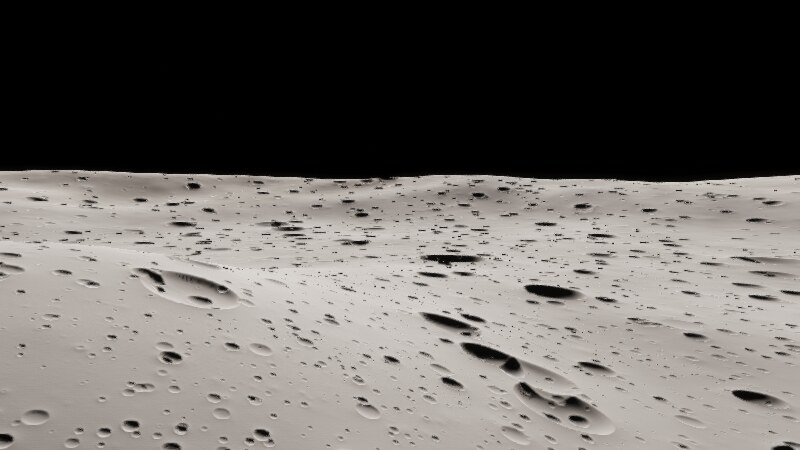
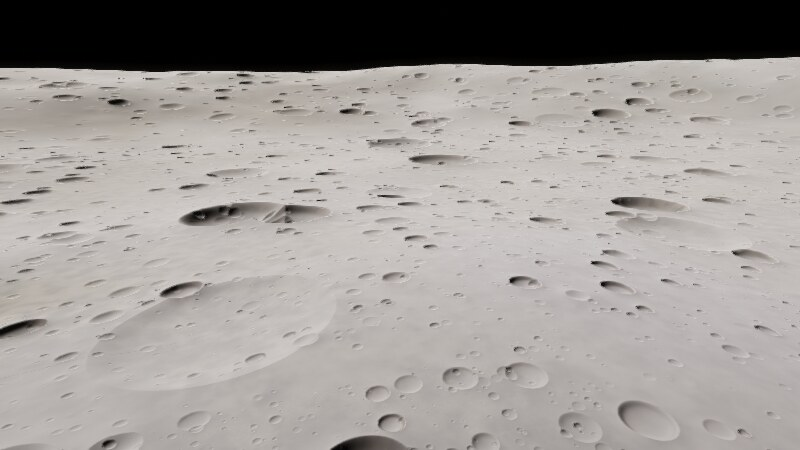
Baked ambient occlusion per terrain tile, scattered boulders on barren ground, degraded small craters

diff --git a/src/planet.js b/src/planet.js
@@ -115,9 +115,10 @@ void main(){
     return;
   }
   vec3 N = up;
+  float aoT = 1.;
   float water = 0., depth = 0.;
   if (uKind == 0) {
-    vec2 nn = texture(uNormTex, tuv).rg;
+    vec3 nt = texture(uNormTex, tuv).rgb; vec2 nn = nt.rg; aoT = nt.b;
     vec3 T1 = normalize(uFaceA - dir*dot(dir, uFaceA)), T2 = cross(dir, T1);
     N = normalize(uRot*(dir*sqrt(max(0., 1. - dot(nn, nn))) + T1*nn.x + T2*nn.y));
     if (uOcean > 0.5) { float h = heightAt(vUV); depth = uSea - h; water = smoothstep(0., 0.4, depth); }
@@ -208,7 +209,8 @@ void main(){
       }
       shade *= 1. - clamp(occ, 0., 1.)*0.92;
     }
-    vec3 land = alb.rgb * (lc*sunT*shade + amb) / 3.14159;
+    float ao = mix(1., aoT, 1. - water);
+    vec3 land = alb.rgb * (lc*sunT*shade*mix(1., ao, 0.35) + amb*ao) / 3.14159;
     if (uSpec > 0.) { vec3 H = normalize(L + Vv); land += lc*sunT*uSpec*0.04*ggx(max(dot(N, H), 0.), 0.35)*max(nl, 0.); }
     if (water > 0.) {
       vec3 H = normalize(L + Vv);
@@ -245,7 +247,7 @@ function mapTint(body, mp) {
   return [t[0] * k, t[1] * k, t[2] * k];
 }
 function dummyTex() { if (!dummy) dummy = tex2D(1, 1, gl.RGBA8, gl.RGBA, gl.UNSIGNED_BYTE, gl.NEAREST, gl.CLAMP_TO_EDGE, new Uint8Array([128, 128, 128, 255])); return dummy; }
-let progDraw = null, progGen = {}, gridVAO = null, gridCount = 0, genFBO = null, queryFBO = null, queryTex = null;
+let progAO = null, progDraw = null, progGen = {}, gridVAO = null, gridCount = 0, genFBO = null, queryFBO = null, queryTex = null;
 const texPool = [];
 let frame = 0;
 
@@ -257,6 +259,18 @@ function init() {
   progGen.terra = new Program('gen-terra', FS_VS, '#define HAS_RELIEF\n' + pre + GEN_TERRA + GEN_MAIN);
   progGen.gas = new Program('gen-gas', FS_VS, pre + GEN_GAS + GEN_MAIN);
   progGen.star = new Program('gen-star', FS_VS, pre + GEN_STAR + GEN_MAIN);
+  progAO = new Program('tile-ao', FS_VS, `in vec2 vUV; out vec4 o; uniform sampler2D uHeightTex; uniform float uTexel, uTexSize;
+    void main(){
+      ivec2 p = ivec2(gl_FragCoord.xy); ivec2 mx = ivec2(int(uTexSize) - 1);
+      float h0 = texelFetch(uHeightTex, p, 0).r, occ = 0.;
+      for (int k = 0; k < 8; k++) {
+        float a = float(k)*0.7853982 + 0.39; vec2 d = vec2(cos(a), sin(a));
+        float best = 0.;
+        for (int r = 1; r <= 16; r *= 2) { ivec2 q = clamp(p + ivec2(d*float(r)), ivec2(0), mx); float dh = texelFetch(uHeightTex, q, 0).r - h0; best = max(best, dh/(float(r)*uTexel)); }
+        occ += best/sqrt(1. + best*best);
+      }
+      o = vec4(0., 0., clamp(1. - occ/8.*0.9, 0.2, 1.), 0.);
+    }`);
   // shared grid with skirt ring
   const G = (cfg.T - 1) / 3; cfg.G = G;
   const n = G + 3, verts = new Float32Array(n * n * 3), idx = new Uint32Array((n - 1) * (n - 1) * 6);
@@ -276,7 +290,7 @@ function init() {
 function allocTex() {
   if (texPool.length) return texPool.pop();
   const T = cfg.T;
-  return { h: tex2D(T, T, gl.R32F, gl.RED, gl.FLOAT, gl.NEAREST), n: tex2D(T, T, gl.RG16F, gl.RG, gl.HALF_FLOAT, gl.LINEAR), a: tex2D(T, T, gl.RGBA8, gl.RGBA, gl.UNSIGNED_BYTE, gl.LINEAR) };
+  return { h: tex2D(T, T, gl.R32F, gl.RED, gl.FLOAT, gl.NEAREST), n: tex2D(T, T, gl.RGBA16F, gl.RGBA, gl.HALF_FLOAT, gl.LINEAR), a: tex2D(T, T, gl.RGBA8, gl.RGBA, gl.UNSIGNED_BYTE, gl.LINEAR) };
 }
 
 class Chunk {
@@ -347,6 +361,17 @@ class PlanetState {
     gl.disable(gl.BLEND); gl.disable(gl.DEPTH_TEST);
     this.genUniforms(prog, ch, cfg.T);
     drawFS();
+    if (this.surf.gen === 'terra') {
+      // ambient occlusion from the baked heights, written into the normal texture's blue channel only
+      gl.framebufferTexture2D(gl.FRAMEBUFFER, gl.COLOR_ATTACHMENT0, gl.TEXTURE_2D, ch.tex.n, 0);
+      gl.framebufferTexture2D(gl.FRAMEBUFFER, gl.COLOR_ATTACHMENT1, gl.TEXTURE_2D, null, 0);
+      gl.framebufferTexture2D(gl.FRAMEBUFFER, gl.COLOR_ATTACHMENT2, gl.TEXTURE_2D, null, 0);
+      gl.drawBuffers([gl.COLOR_ATTACHMENT0]);
+      gl.colorMask(false, false, true, false);
+      progAO.use().set({ uHeightTex: ch.tex.h, uTexel: ch.size / (cfg.T - 1) * this.body.radius / ch.qlen, uTexSize: cfg.T });
+      drawFS();
+      gl.colorMask(true, true, true, true);
+    }
     ch.ready = true; ch.queued = false; this.count++;
   }
   // Non-blocking version for per-frame use: returns the most recent completed result (or null) and starts a new query.

diff --git a/src/terrain_glsl.js b/src/terrain_glsl.js
@@ -94,14 +94,18 @@ float craters(vec3 d){
     for (int c = 0; c < 8; c++) {
       ivec3 cc = ivec3(c & 1, (c >> 1) & 1, (c >> 2) & 1);
       uint hs = hashu(ic + cc, 77u);
-      if (float(hs & 255u) > 255. * uCrater * 0.55) continue;
+      // small craters are gardened away quickly: fewer survive, most are old and soft
+      float small = smoothstep(9., 17., float(o));
+      if (float(hs & 255u) > 255. * uCrater * mix(0.55, 0.3, small)) continue;
       vec3 rnd = vec3(float((hs>>8)&255u), float((hs>>16)&255u), float((hs>>24)&255u)) / 255.;
       float rad = 0.14 + 0.3*rnd.z*rnd.z;
       vec3 cen = vec3(cc) + 0.5 + (rnd - 0.5)*(1. - 2.*rad)*vec3(1.,1.,0.5);
       float t = length(w - cen)/rad;
       if (t < 3.) {
-        float age = fract(rnd.x*7.31 + rnd.y*3.7);
-        h += craterProfile(t, big) * rad / f * mix(1.0, 0.35, age);
+        float age = pow(fract(rnd.x*7.31 + rnd.y*3.7), mix(1., 0.35, small));
+        // degraded craters: shallower and with the rim smoothed into the surroundings
+        float tt = mix(t, t*0.85 + 0.15*smoothstep(0., 2., t), age);
+        h += craterProfile(tt, big) * rad / f * mix(1.0, 0.18, age);
         gFresh += (1.-age)*(1.-age) * exp(-t*t*0.9) * smoothstep(0.7, 0.0, age);
       }
     }
@@ -150,8 +154,35 @@ float terrainMapped(vec3 d, vec3 P){
   return h;
 }
 
+// scattered boulders, a few metres across, where the ground is barren
+float boulders(vec3 d){
+  int ob = int(round(log2(uRadius/(3.*uFreq))));
+  if (uOMax < ob || ob >= NOCT) return 0.;
+  float field = smoothstep(-0.1, 0.5, gn(max(ob - 9, 0), 71u, d).x + 0.4*gn(max(ob - 6, 0), 72u, d).x) * (1. - 0.75*uVeg) * (uOcean > 0.5 ? 0.5 : 1.);
+  if (field < 0.02) return 0.;
+  float h = 0.;
+  for (int lv = 0; lv < 2; lv++) {
+    int o = ob + lv;
+    if (o > uOMax || o >= NOCT) break;
+    float f = exp2(float(o))*uFreq;
+    vec3 x = uOF[o] + d*f;
+    vec3 i = floor(x - 0.5), w = x - i; ivec3 ic = ivec3(i) + uOC[o];
+    for (int c = 0; c < 8; c++) {
+      ivec3 cc = ivec3(c & 1, (c >> 1) & 1, (c >> 2) & 1);
+      uint hs = hashu(ic + cc, 73u + uint(lv));
+      if (float(hs & 255u) > 255.*field*0.35) continue;
+      vec3 rnd = vec3(float((hs>>8)&255u), float((hs>>16)&255u), float((hs>>24)&255u))/255.;
+      float rad = 0.12 + 0.3*rnd.z*rnd.z;
+      vec3 cen = vec3(cc) + 0.5 + (rnd - 0.5)*(1. - 2.*rad);
+      vec3 q = (w - cen)/rad; q.y *= 1.3;
+      float t2 = dot(q, q);
+      if (t2 < 1.) h = max(h, sqrt(1. - t2)*rad/f*0.75);
+    }
+  }
+  return h*uRadius*field;
+}
 float terrain(vec3 d, vec3 P){
-  if (uHasH > 0.5) return terrainMapped(d, P);
+  if (uHasH > 0.5) return terrainMapped(d, P) + boulders(d);
   vec3 w = vec3(gn(1,101u,d).x, gn(1,102u,d).x, gn(1,103u,d).x)*0.5;
   if (uOMax >= 3) w += vec3(gn(3,104u,d).x, gn(3,105u,d).x, gn(3,106u,d).x)*0.12;
   vec3 dw = d + w*uWarp;
@@ -229,7 +260,7 @@ float terrain(vec3 d, vec3 P){
     h += gCrack * uHillAmp * 0.6 * (uLava > 0.5 ? -2. : 1.);
   }
   if (uCrater > 0.) h += craters(d);
-  return h;
+  return h + boulders(d);
 }
 
 vec3 surfaceColorProc(vec3 d, vec3 P, float h, float slope, out float emis);
